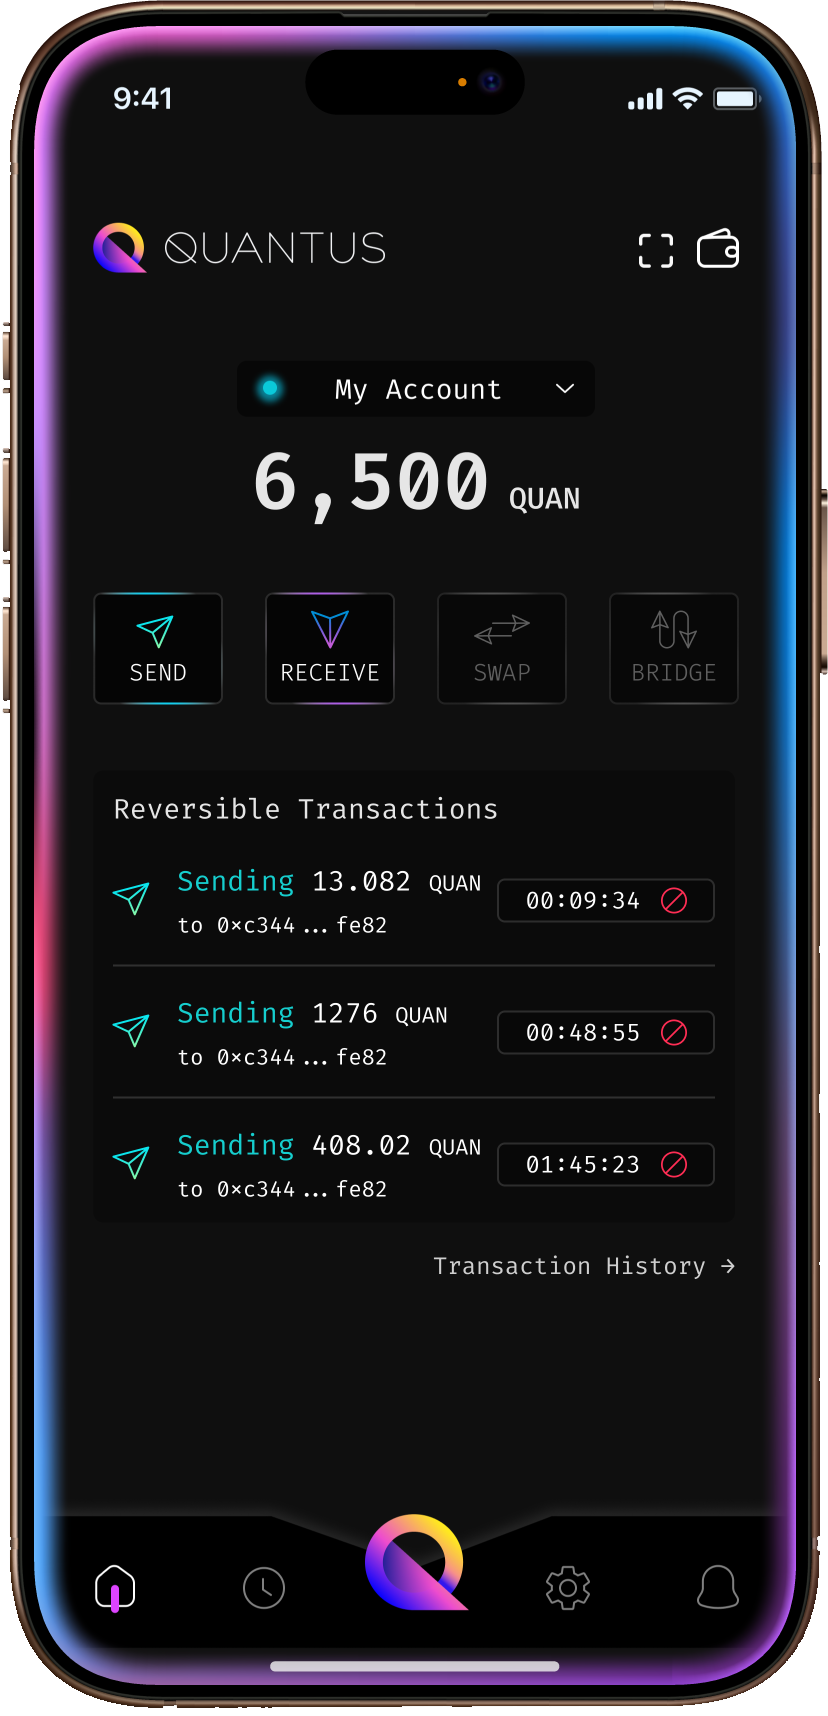
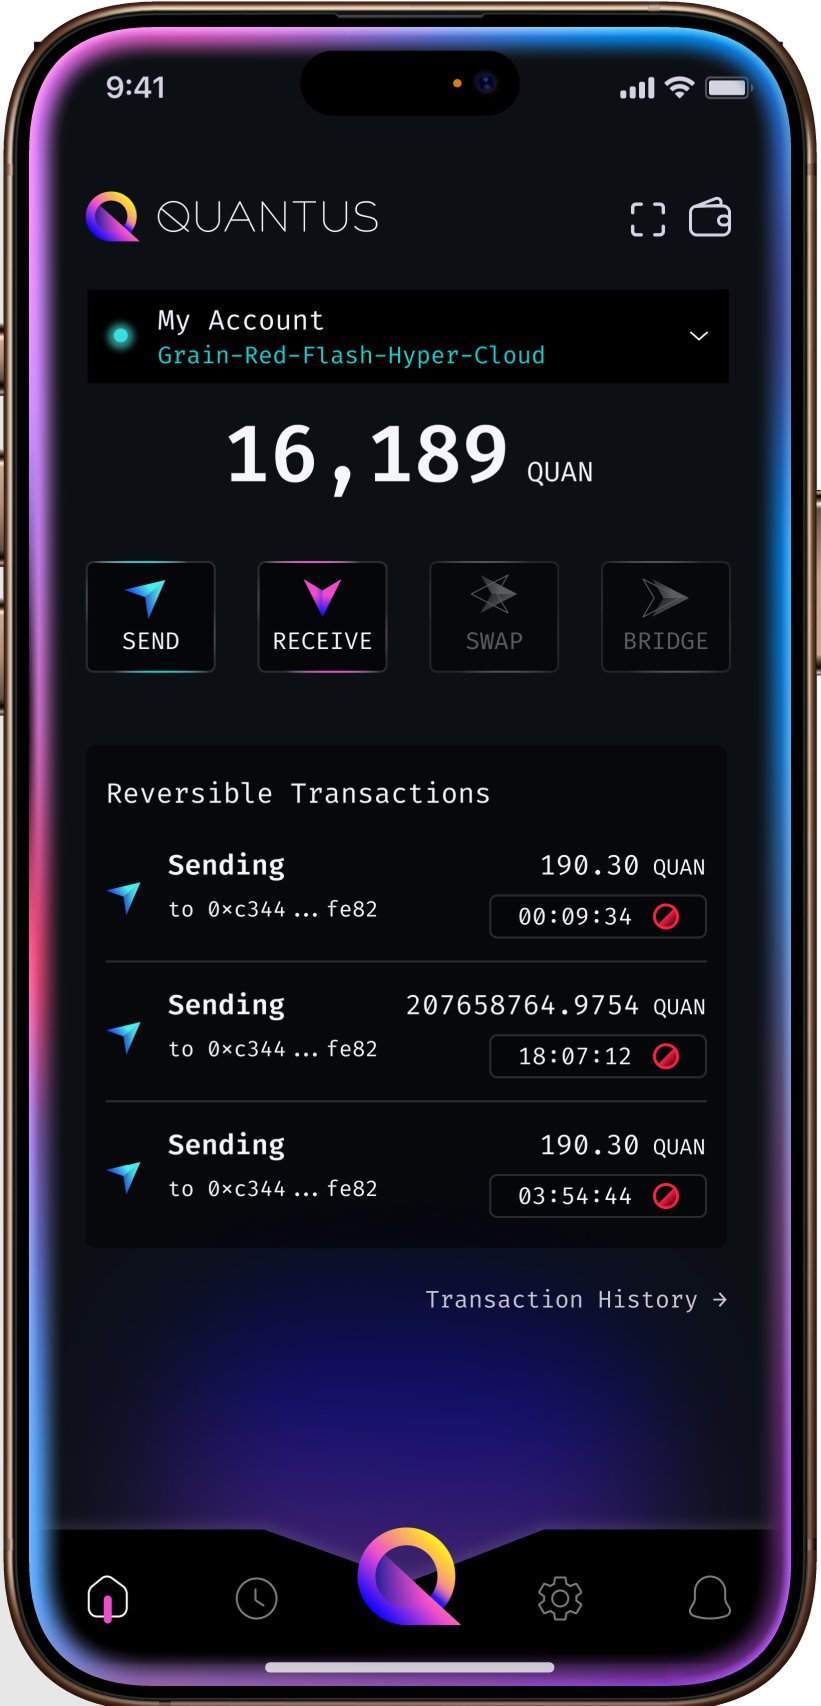
feat: update app mockup image, add social to teams, change site socials ig and linkree

diff --git a/website/src/constants/site-socials.ts b/website/src/constants/site-socials.ts
@@ -11,6 +11,6 @@ export const SITE_SOCIALS = {
   youtube: "https://www.youtube.com/@quantus.network",
   telegram: "https://t.me/quantusnetwork",
   github: "https://github.com/Quantus-Network",
-  instagram: "https://instagram.com/deepsteep01",
-  linktree: "https://linktr.ee/quantusnetwork",
+  instagram: "https://www.instagram.com/quantusnetwork/",
+  linktree: "https://tr.ee/wFDhS5",
 } as const;
